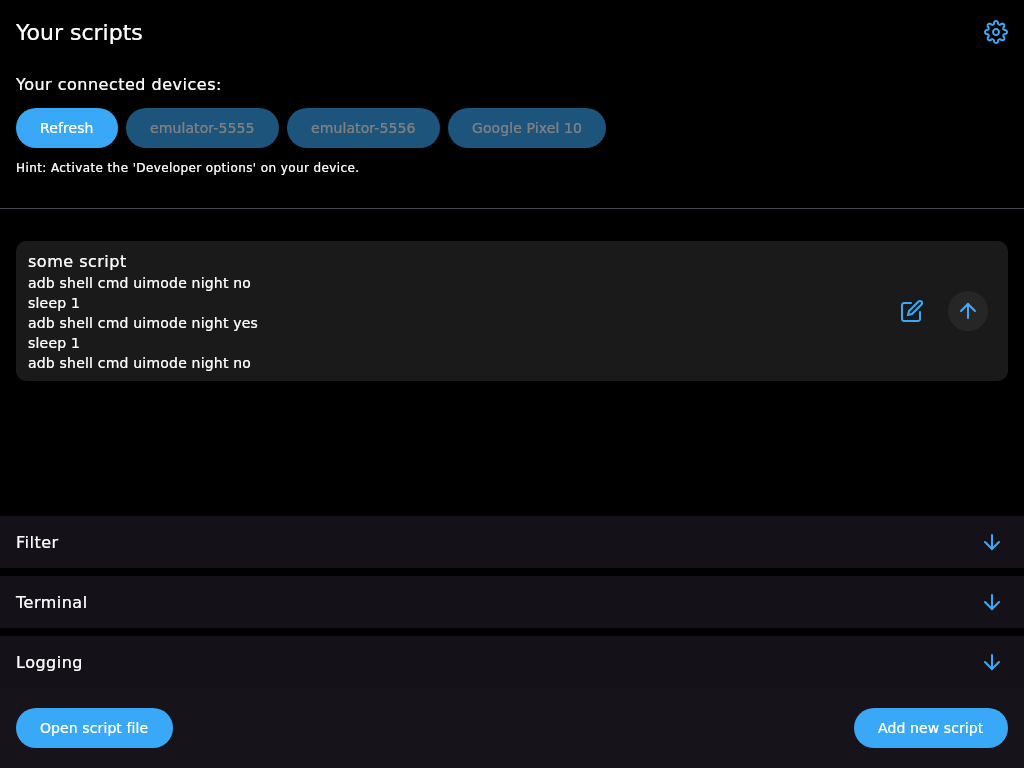
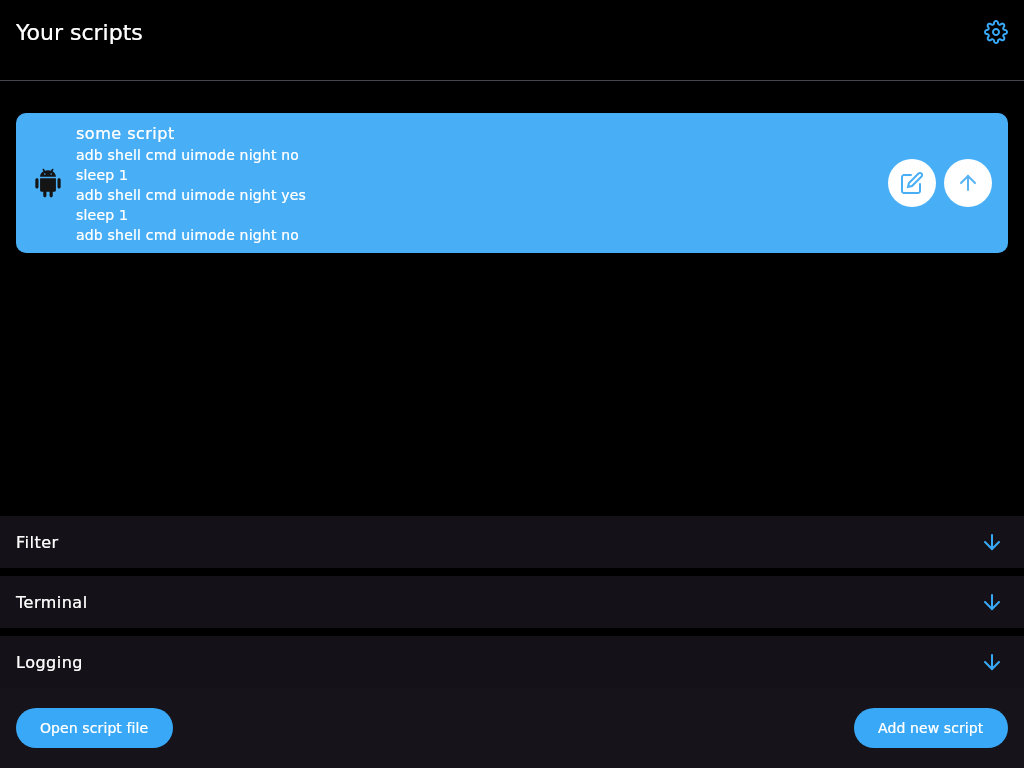
revert

diff --git a/sharedCode/src/commonMain/kotlin/de/joz/appcommander/ui/scripts/ScriptsScreen.kt b/sharedCode/src/commonMain/kotlin/de/joz/appcommander/ui/scripts/ScriptsScreen.kt
@@ -55,6 +55,7 @@ import de.joz.appcommander.resources.scripts_title
 import de.joz.appcommander.ui.misc.BottomBar
 import de.joz.appcommander.ui.misc.BottomBarAction
 import de.joz.appcommander.ui.misc.Collapsable
+import de.joz.appcommander.ui.misc.ConnectedDevices
 import de.joz.appcommander.ui.misc.ExpandButton
 import de.joz.appcommander.ui.misc.PlatformIcon
 import de.joz.appcommander.ui.misc.PlatformSelection
@@ -128,13 +129,13 @@ internal fun ScriptsContent(
 			val paddingInline = Modifier.padding(horizontal = 16.dp, vertical = 8.dp)
 			var isAtMinimumOneDeviceSelected by remember { mutableStateOf(false) }
 
-			/*ConnectedDevices(
+			ConnectedDevices(
 				showHintLabel = true,
 				modifier = paddingInline,
 				onIsAtMinimumOneDeviceSelected = {
 					isAtMinimumOneDeviceSelected = it
 				},
-			)*/
+			)
 
 			SectionDivider()
 
@@ -203,7 +204,10 @@ private fun ScriptsSection(
 		verticalArrangement = Arrangement.spacedBy(8.dp),
 	) {
 		itemsIndexed(scripts) { index, script ->
-			val isButtonActive = script.isExpanded
+			val isButtonActive = UiHelper.isScriptExecutableByUi(
+				isAtMinimumOneDeviceSelected,
+				script.originalScript.platform,
+			)
 
 			Button(
 				modifier = Modifier.testTag("script_button_$index"),
